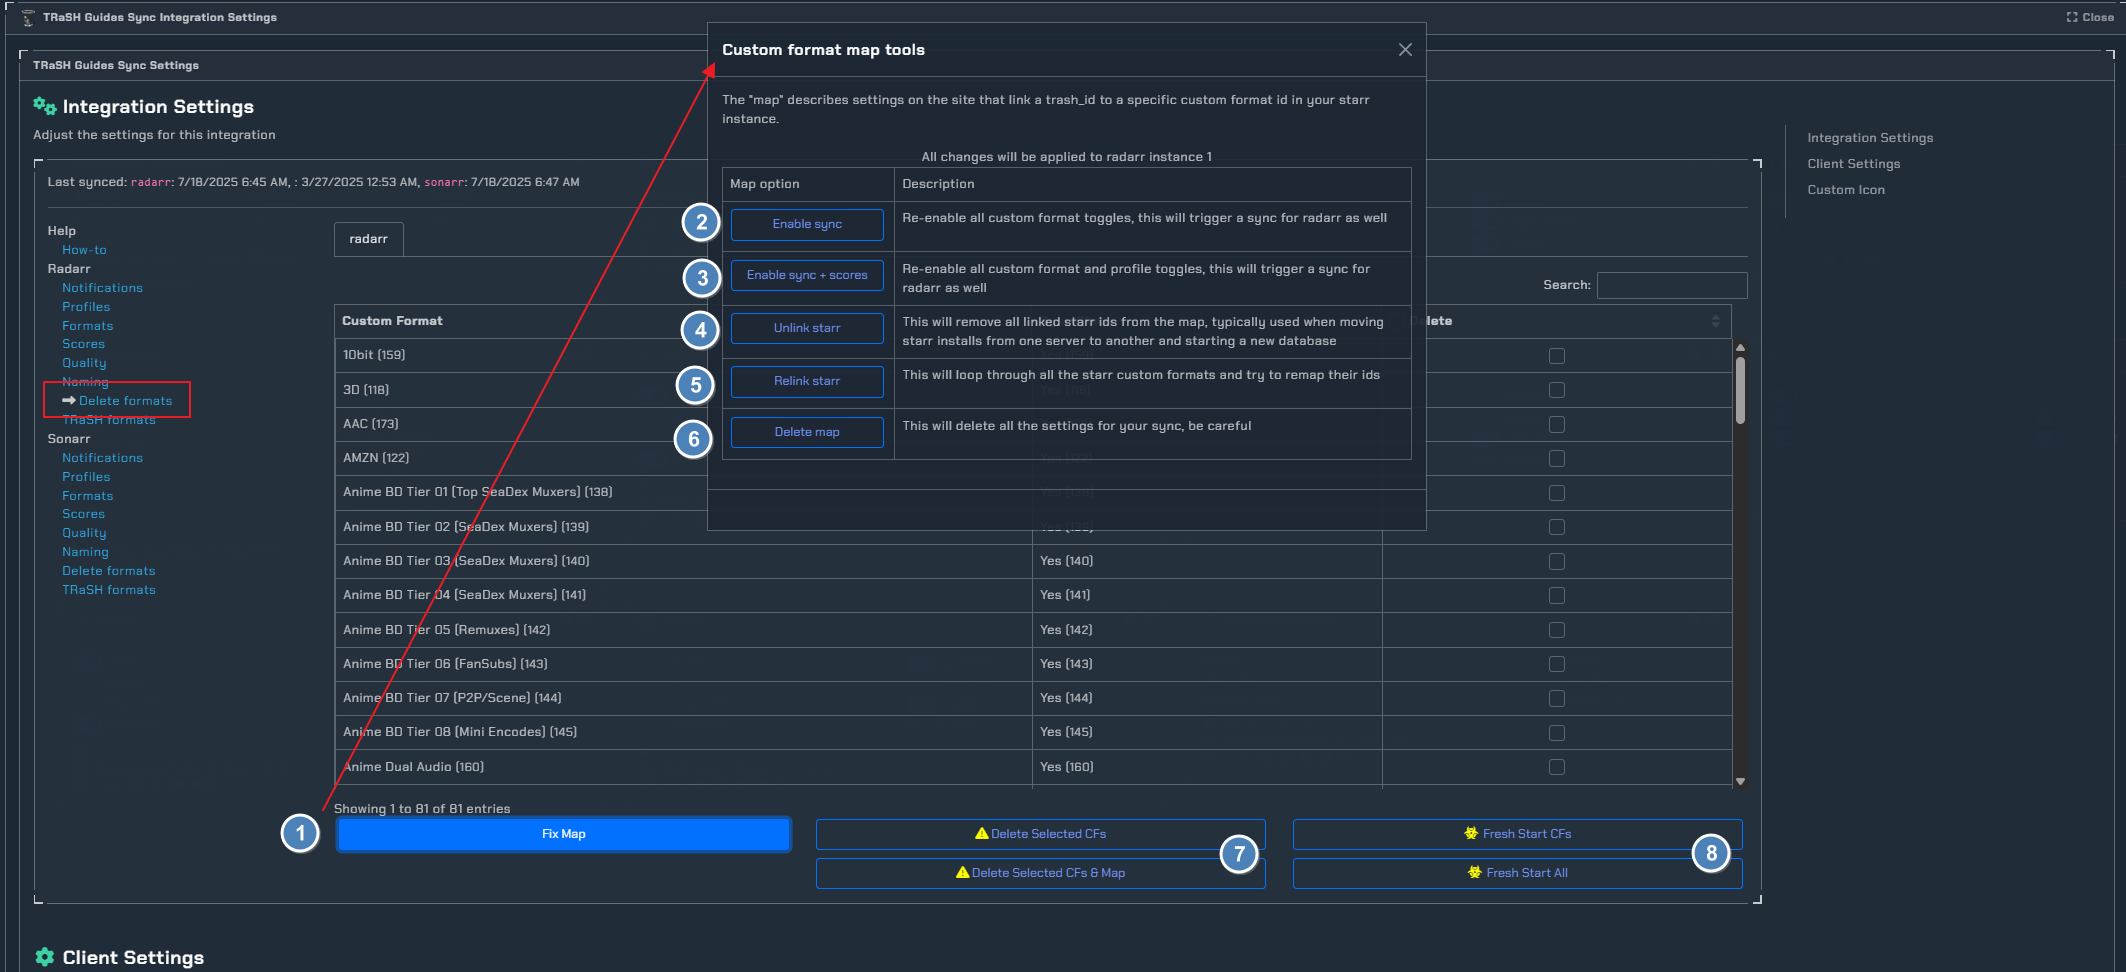
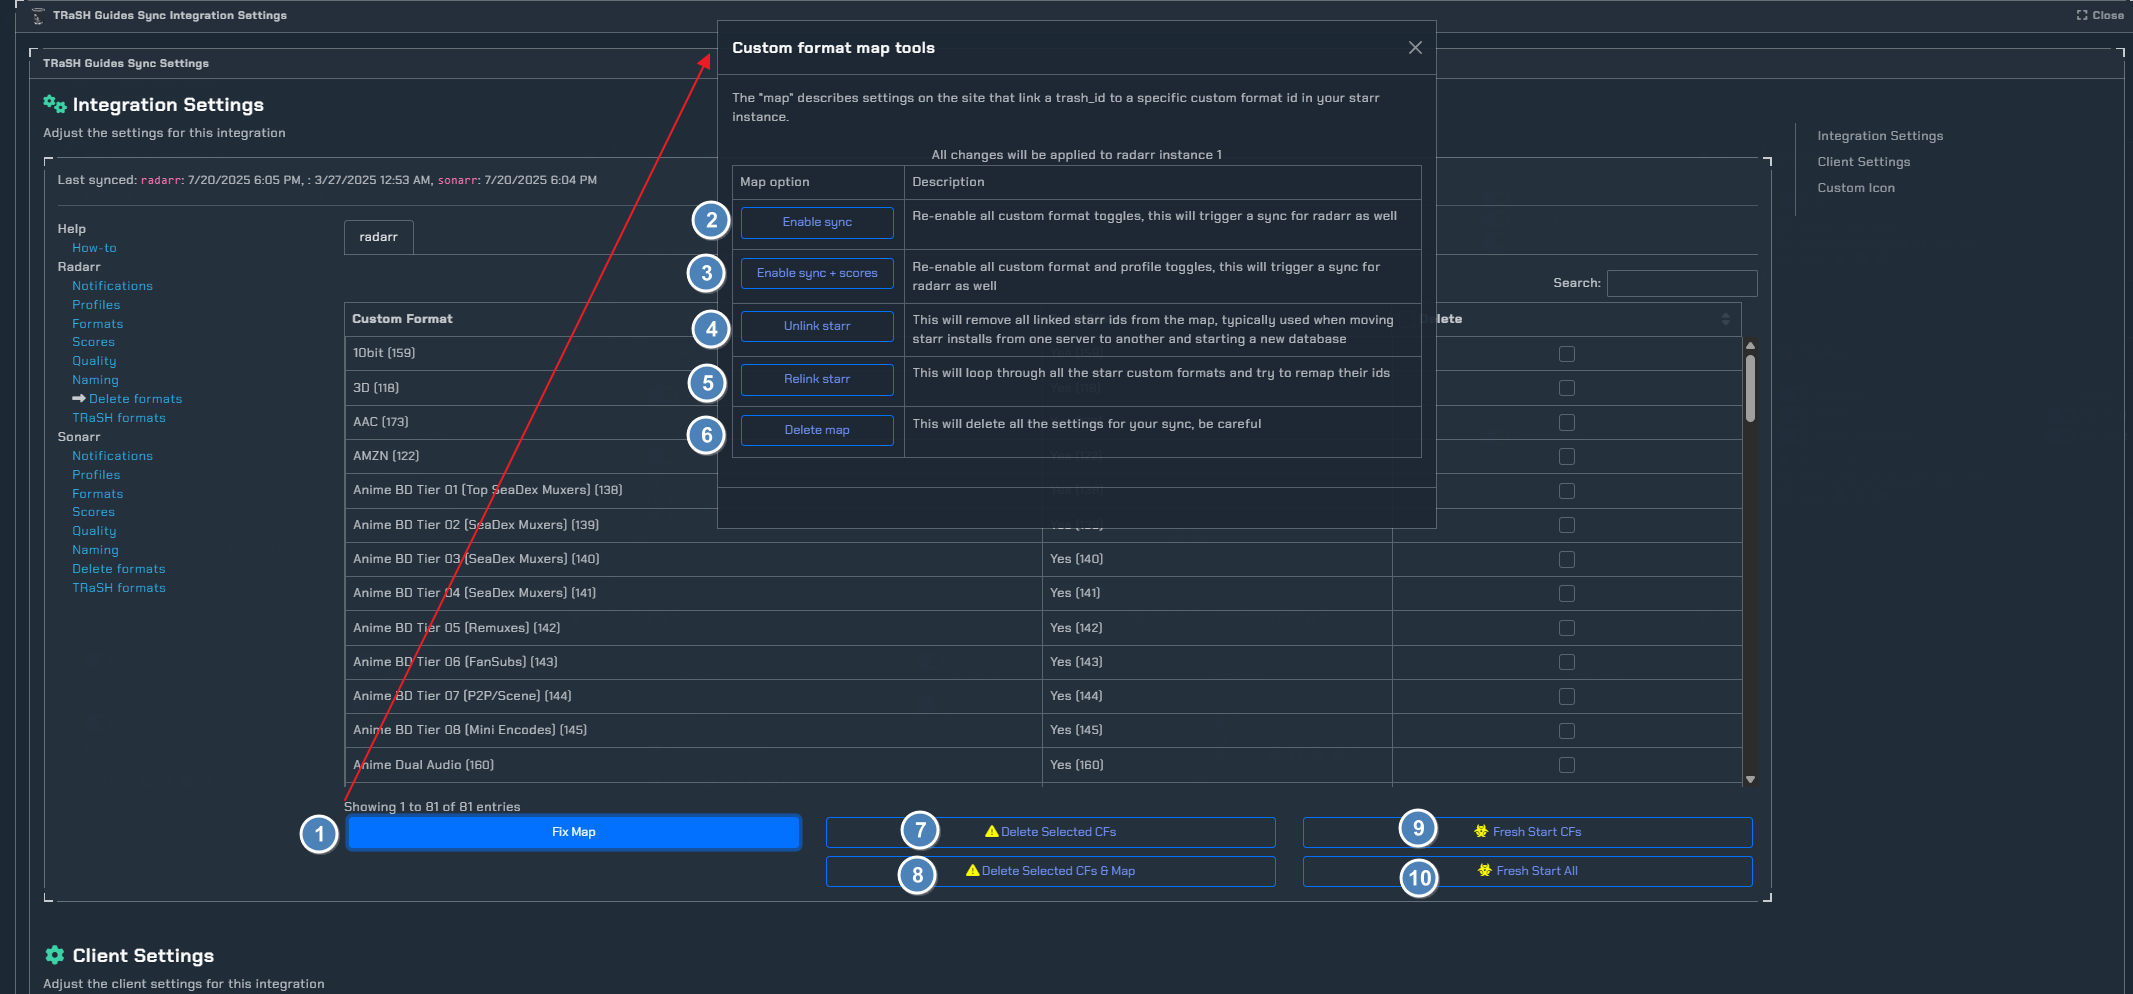
making some changes to the TRaSH page.

diff --git a/docs/pages/integrations/trash.md b/docs/pages/integrations/trash.md
@@ -21,9 +21,9 @@
 
 ![trigger-channels.png](../../assets/screenshots/integrations/trash/trigger-channels.png)
 
-`CFs/Scores` - The amount of CF's and scores you have synced.
+1. `CFs/Scores` - The amount of CF's and scores you have synced.
 
-`Channel` - Which channel to send TRaSH update notifications to (when TRaSH updates them, removes them, when you sync them or unsync them)
+2. `Channel` - Which channel to send TRaSH update notifications to (when TRaSH updates them, removes them, when you sync them or unsync them)
 
 ## Getting Started
 
@@ -33,19 +33,19 @@ Click the **cog icon** in the card header to open the configuration options for
 
 ## Client Settings
 
-here you can change the interval for your sync
+here you can change the interval for your profile's sync.
 
 ![client-sync.png](../../assets/screenshots/integrations/trash/client-sync.png)
 
 ### Notifications
 
-Here we can individually set what we would want to be notified for.
+Here we can individually select what we would want to be notified of. For this example we selected all available triggers.
 
 ![notifications.png](../../assets/screenshots/integrations/trash/notifications.png.png)
 
 ### Profiles
 
-here we can manange existing profiles or add new profiles/link predefined TRaSH profiles. For this guide we are going too add the TRaSH **HD Bluray + WEB** profile
+here we can manange existing profiles or add new profiles/link predefined TRaSH profiles. For this guide we are going to add the TRaSH **HD Bluray + WEB** profile
 
 ![profiles-add-new.png](../../assets/screenshots/integrations/trash/profiles-add-new.png)
 
@@ -54,36 +54,34 @@ here we can manange existing profiles or add new profiles/link predefined TRaSH 
 
 ![profiles-1.png](../../assets/screenshots/integrations/trash/profiles-1.png)
 
-`Sync` - syncing the profile.
+1. `Sync` - Enable this to sync your profile.
 
-`Starr instance profile` - if you want to create a new profile, or overide a existing profile.
+2. `Starr instance profile` - Either create a new profile or select one of the TRaSH profiles available.
 
-`Profile name` - profile name **Needs to be unique**.
+3. `Profile name` - Here you can set your profile name **This needs to be unique**.
 
 !!! Note
-    If you plan too use TRaSH as default you can stop here and save your settings. Below we will got into customizing the profile, quality, and CF's.
+    If you plan to use TRaSH as default you can stop here and save your settings. Below we will got into customizing the profile, quality, and CF's.
 
 !!! warning SAVE PROFILE SYNC
     **MAKE SURE TO SAVE YOUR PROFILE SYNC, THIS IS DIFFERENT FROM SAVE CLIENT SETTINGS**
 
-
-
 ### Profile Customization
 
 !!! info
-    Check-box means you want too sync TRaSH values and cannot change them in your ARR's as they will revert back after each sync is made. Uncheck any that you want too customize, And do so inside of your ARR's.
+    Check-box means you want to sync TRaSH values and cannot change them in your ARR's as they will revert back after each sync is made. Uncheck any that you want to customize, And do so inside of your ARR's.
 
 ![profile-customization-1.png](../../assets/screenshots/integrations/trash/profile-customization-1.png)
 
-`Language` - If you want too always sync your language, **Disable this if you plan too use something other then TRaSH default.
+1. `Language` - If you want to sync your prefered language, **Disable this if you plan to use something other then the TRaSH default.
 
-`Upgrades allowed` - Enable to allow upgrades.
+2. `Upgrades allowed` - Enable this if you plan to allow upgrades in your profile.
 
-`Minimum score` - Minimum score to download.
+3. `Minimum score` - Enable this to set the minimum download score to 0.
 
-`Minimum upgrade score` - Minimum score differnce too allow upgrade. **defaulted to 1**
+4. `Minimum upgrade score` - enable this to set the minimim score increase to allow a upgrade.
 
-`Cutoff score` - When quality cutoff is met. **default set 10000**
+5. `Cutoff score` - Enable this to set the cutoff score. **default set 10000**
 
 ### Quality Settings
 
@@ -92,19 +90,19 @@ here we can manange existing profiles or add new profiles/link predefined TRaSH 
 
 ![quality.png](../../assets/screenshots/integrations/trash/quality.png)
 
-`Cutoff quality` - Enable to use the default cutoff here it would be `Bluray-1080p`
+1. `Cutoff quality` - Cutoff quality is the quality that you want your starr instance to stop upgrading at. `Bluray-1080p`
 
-`Qualities` - Match TRaSH qualities, or allow Custom qualities.
+2. `Qualities` - You can choose to either match the TRaSH quality groups, or you can set this to allow custom set groups. For example we want to use the TRaSH `HD Bluray + WEB` profile but we don't want to include `720p`.
 
 ### Custom Formats "CF"
 
 ![custom-formats-1.png](../../assets/screenshots/integrations/trash/custom-formats-1.png)
 
-`Add` - Choose if you want all new formats automatically added, only add missing formats, or add no formats.
+1. `Add` - You can choose to either automatically add new formats, add missing formats, or add none.
 
-`Remove` - Remove cf scores from this profile, or allow cf scores for this profile.
+2. `Remove` - You can choose to remove custom scores on each sync, or if you want to set your own scores you would want to `allow custom scores from formats assigned to this profile`. If your planning to set scores different then what TRaSH has then you would want to set this to `allow`.
 
-`Groups` - All available cf groups, You can choose the drop down too show all that are available.
+3. `Groups` - This is where you can select each group that you want in your profile sync, along with the available CF's within that group.
 
 ### Formats
 
@@ -113,39 +111,39 @@ here we can manange existing profiles or add new profiles/link predefined TRaSH 
 
 ![formats-1.png](../../assets/screenshots/integrations/trash/formats-1.png)
 
-`Sync TRaSH CF names` - If you want to sync the names for the TRaSH CFs.
+1. `Sync TRaSH CF names` - If you want to sync the names set for the TRaSH CFs.
 
-`Interactive flowchart` - Useful interactive flow charts for TRaSH.
+2. `Interactive flowchart` - Useful interactive flow charts for TRaSH profiles.
 
 ### Scores
 
-Here you can setup custom scores too your liking, and choose to sync them.
+Here you can setup custom scores to your liking, and choose to sync them.
 
 ![scores-1.png](../../assets/screenshots/integrations/trash/scores-1.png)
 
-`Filter` - filter between avialable profiles.
+1. `Filter` - Filter between witch profile you're editing/looking at.
 
-`Multiplier` - (multiplier * TRaSH = your score)
+2. `Multiplier` - (multiplier * TRaSH = your score)
 
-`Starr score/Custom` - Set a custom score of your choice.
+3. `Starr score/Custom` - Here you can set personal scores while still keeping your CF's in sync.
 
-`Sync` - Check-box to enable sync.
+4. `Sync` - Check-box to enable sync.
 
 ## Quality
 
-Here you can edit quality names within a specific group and choose too sync them too your starr instance. 
+Here you can edit quality names within a specific group and choose to sync them to your starr instance.
 
 ![quality-1.png](../../assets/screenshots/integrations/trash/quality-1.png)
 
-`Definition group`- Here you can choose the starr profile.
+1. `Definition group`- Here you can choose the starr profile, that you plan to edit or change.
 
-`Rename Field` - This is where you can customize the name of a quality.
+2. `Rename Field` - This is where you can customize the name of a quality.
 
-`Sync` - Check-box to enable sync.
+3. `Sync` - Check-box to enable sync.
 
 ### Naming
 
-Here you can choose a default TRaSH naming scheme for your media files/folders.
+Here you can choose a default TRaSH naming scheme for your media. There are recommended presets for most applications used today.
 
 ![naming-1.png](../../assets/screenshots/integrations/trash/naming-1.png)
 
@@ -153,18 +151,22 @@ Here you can choose a default TRaSH naming scheme for your media files/folders.
 
 ![formats-1.png](../../assets/screenshots/integrations/trash/delete-formats.png)
 
-`Fix Map` - Open the Custom Format map tool.
+1. `Fix Map` - This will open the mapping tool options.
 
-`Enable sync` - Enable sync for all CF's.
+2. `Enable sync` - This will re-enable all the CF toggles, this is useful if you want to change the selected CF's.
 
-`Enable sync + scores` - Enable sync and scores. Will trigger a sync for starr instance
+3. `Enable sync + scores` - This will re-enable all the CF toggles, and scores. This is useful if you want to change CF's and scores.
 
-`Unlink starr` - Unlink your starr id from the map.
+4. `Unlink starr` - This will unlink your starr id's from the map. This is useful if your moving your starr install to a different server or if your changing databases.
 
-`Relink starr` - Relink your starr ip/map.
+5. `Relink starr` - This will attempt to re-link your starr instance id's and CF's to the map.
 
-`Delete map` - Delete map **BE CAREFUL THIS WILL DELETE ALL YOUR SYNC SETTINGS**
+6. `Delete map` - This will delete all of your sync settings. Useful for starting fresh.
 
-`Delete Selected CFs/Delete Selected CFs & Map` delete your CF's and map
+7. `Delete Selected CFs` - This will delete all of the selected CF's in your profile. 
 
-`  Fresh Start CFs/All` Fresh start CF's or ALL.
+8. `Delete Selected CFs & Map` - This will delete all of your CF's and the profile mapping.
+
+9. `Fresh Start CFs` - This will delete all the formats but leave the map so a sync would put everything back that is in sync. This is useful to clean things up without loosing your sync settings.
+
+10. `Fresh Start All` - This would delete all CF's/scores/ect. Only do this if you want to nuke everything and start over.
